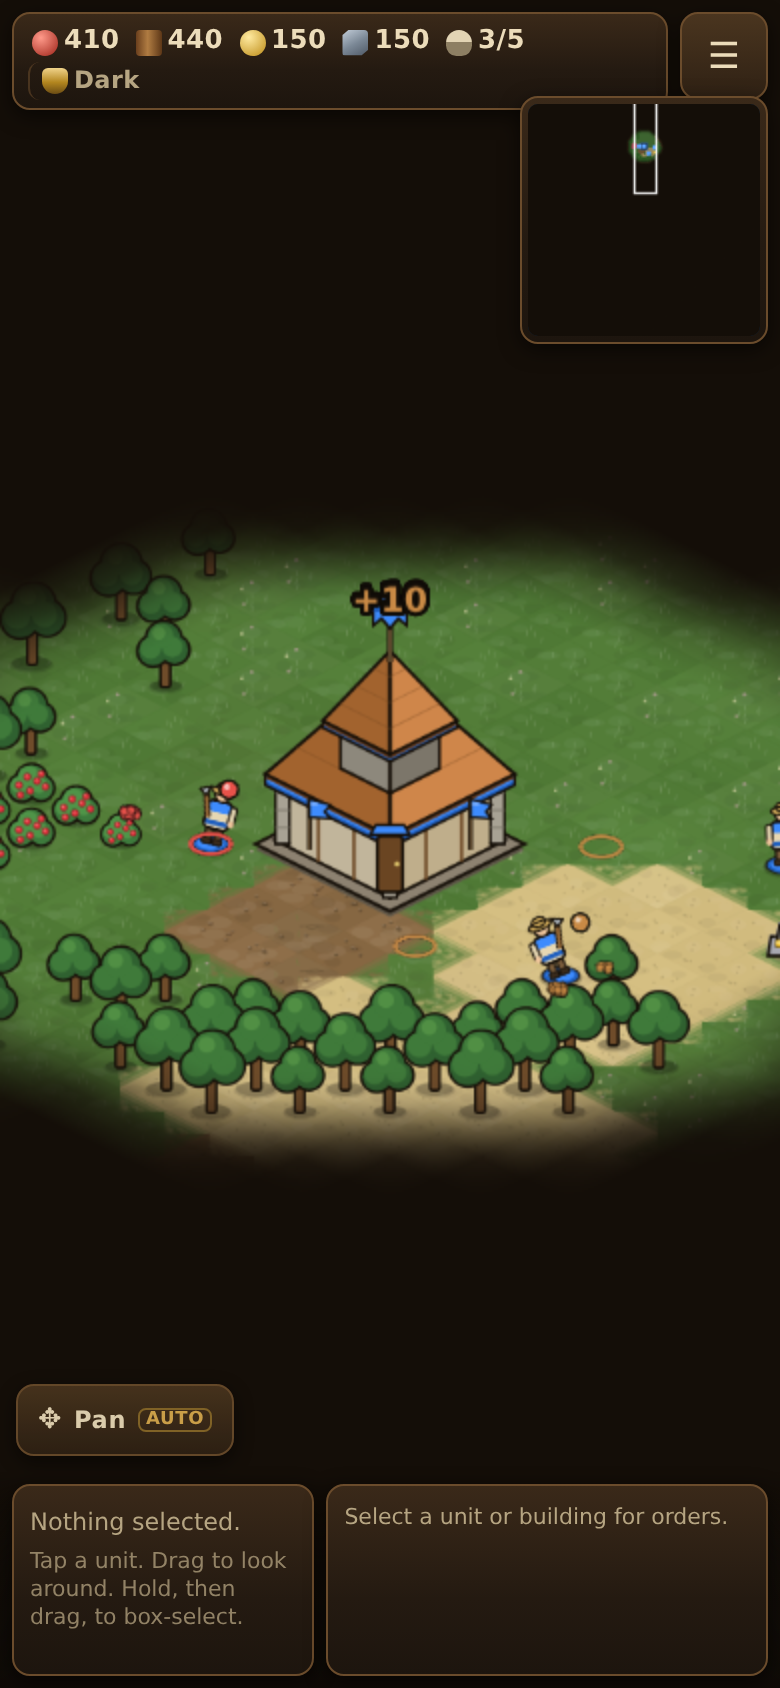
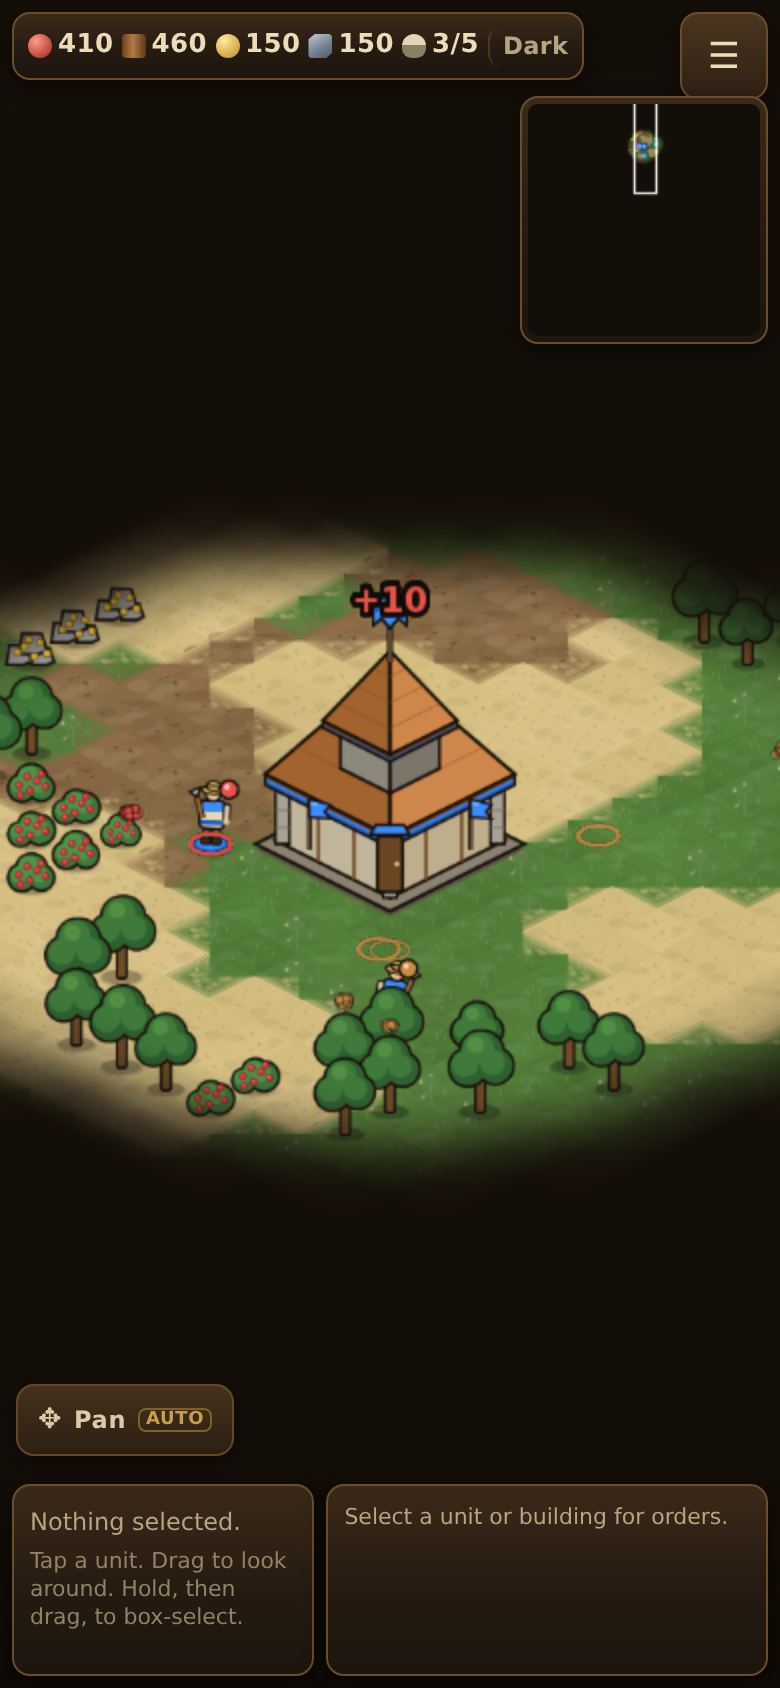
Add a tech tree: three ages, upgrades, and per-age building unlocks
Dark, Feudal (400 food, 50s) and Castle (600 food + 200 gold, 65s),
researched at the Town Center. AoE2's real age costs land Feudal at about
5:30 of a ten-minute match, which is past the point of being useful, so the
costs are compressed to match this economy rather than copied.

Aging up scales the HP of every building the player owns, standing, wounded
or still a foundation, keeping damage as a fraction. It is the one universal
bonus that helps the player who is behind while they save for it.

Barracks sits in the Dark Age, which is where AoE2 puts it: gating it behind
Feudal would push the enemy AI's first barracks and first wave past its own
age-up and break the pacing the rest of the game is tuned around.

Economic upgrades at the mill, lumber camp and mining camp raise gather rates
per resource; forging, fletching and the armour lines raise attack and armour.
Upgrades are read at the moment of the swing rather than copied onto units, so
an army already in the field benefits the instant the research lands.

The build menu shows locked buildings with the age they need rather than
hiding them, so aging up has a visible reward. Unlock tables are filtered
against the buildings that actually exist, so the castle, walls, market and
towers being added by the next pass slot in without further edits.

Claude-Session: https://claude.ai/code/session_01UneGN3iZX7WqeMmk2WH8D2

Changed region(s): [[0.0, 0.3081, 1.0, 0.6777], [0.0308, 0.0, 0.8615, 0.0616], [0.8, 0.0616, 0.8615, 0.0924]]

diff --git a/src/systems/tech.js b/src/systems/tech.js
@@ -24,9 +24,7 @@
 // down exactly like a training queue, so it belongs on the same beat, and
 // routing it through economy keeps the scene's system list unchanged.
 
-import {
-  BUILDING_STATS, UNIT_STATS, RES, GATHER_RATE, PLAYER,
-} from '../core/constants.js';
+import { BUILDING_STATS, UNIT_STATS, PLAYER } from '../core/constants.js';
 import { EV } from '../core/events.js';
 // The stockpile primitives live in economy.js and economy.js imports this
 // module back for updateResearch(), so the two are a cycle. That is safe here
@@ -44,7 +42,6 @@ import { canAfford, pay, refund } from './economy.js';
 // AoE2 skirmish actually plays through in its first twenty minutes, compressed.
 
 export const AGE = { DARK: 0, FEUDAL: 1, CASTLE: 2 };
-export const MAX_AGE = AGE.CASTLE;
 
 export const AGE_NAMES = ['Dark Age', 'Feudal Age', 'Castle Age'];
 /** Short form for the top bar, where there is room for about six characters. */
@@ -862,15 +859,3 @@ export function nextAgeTech(world, playerId) {
   }
   return null;
 }
-
-/**
- * The rate GATHER_RATE would give, times this player's upgrades. Exported so a
- * test (or the AI) can ask "what is my food line actually worth now" without
- * reaching into the totals table.
- */
-export function baseGatherRate(resourceType) {
-  return GATHER_RATE[resourceType] || 0.5;
-}
-
-/** Every resource key the gather upgrades know about. */
-export const UPGRADABLE_RESOURCES = [RES.FOOD, RES.WOOD, RES.GOLD, RES.STONE];
